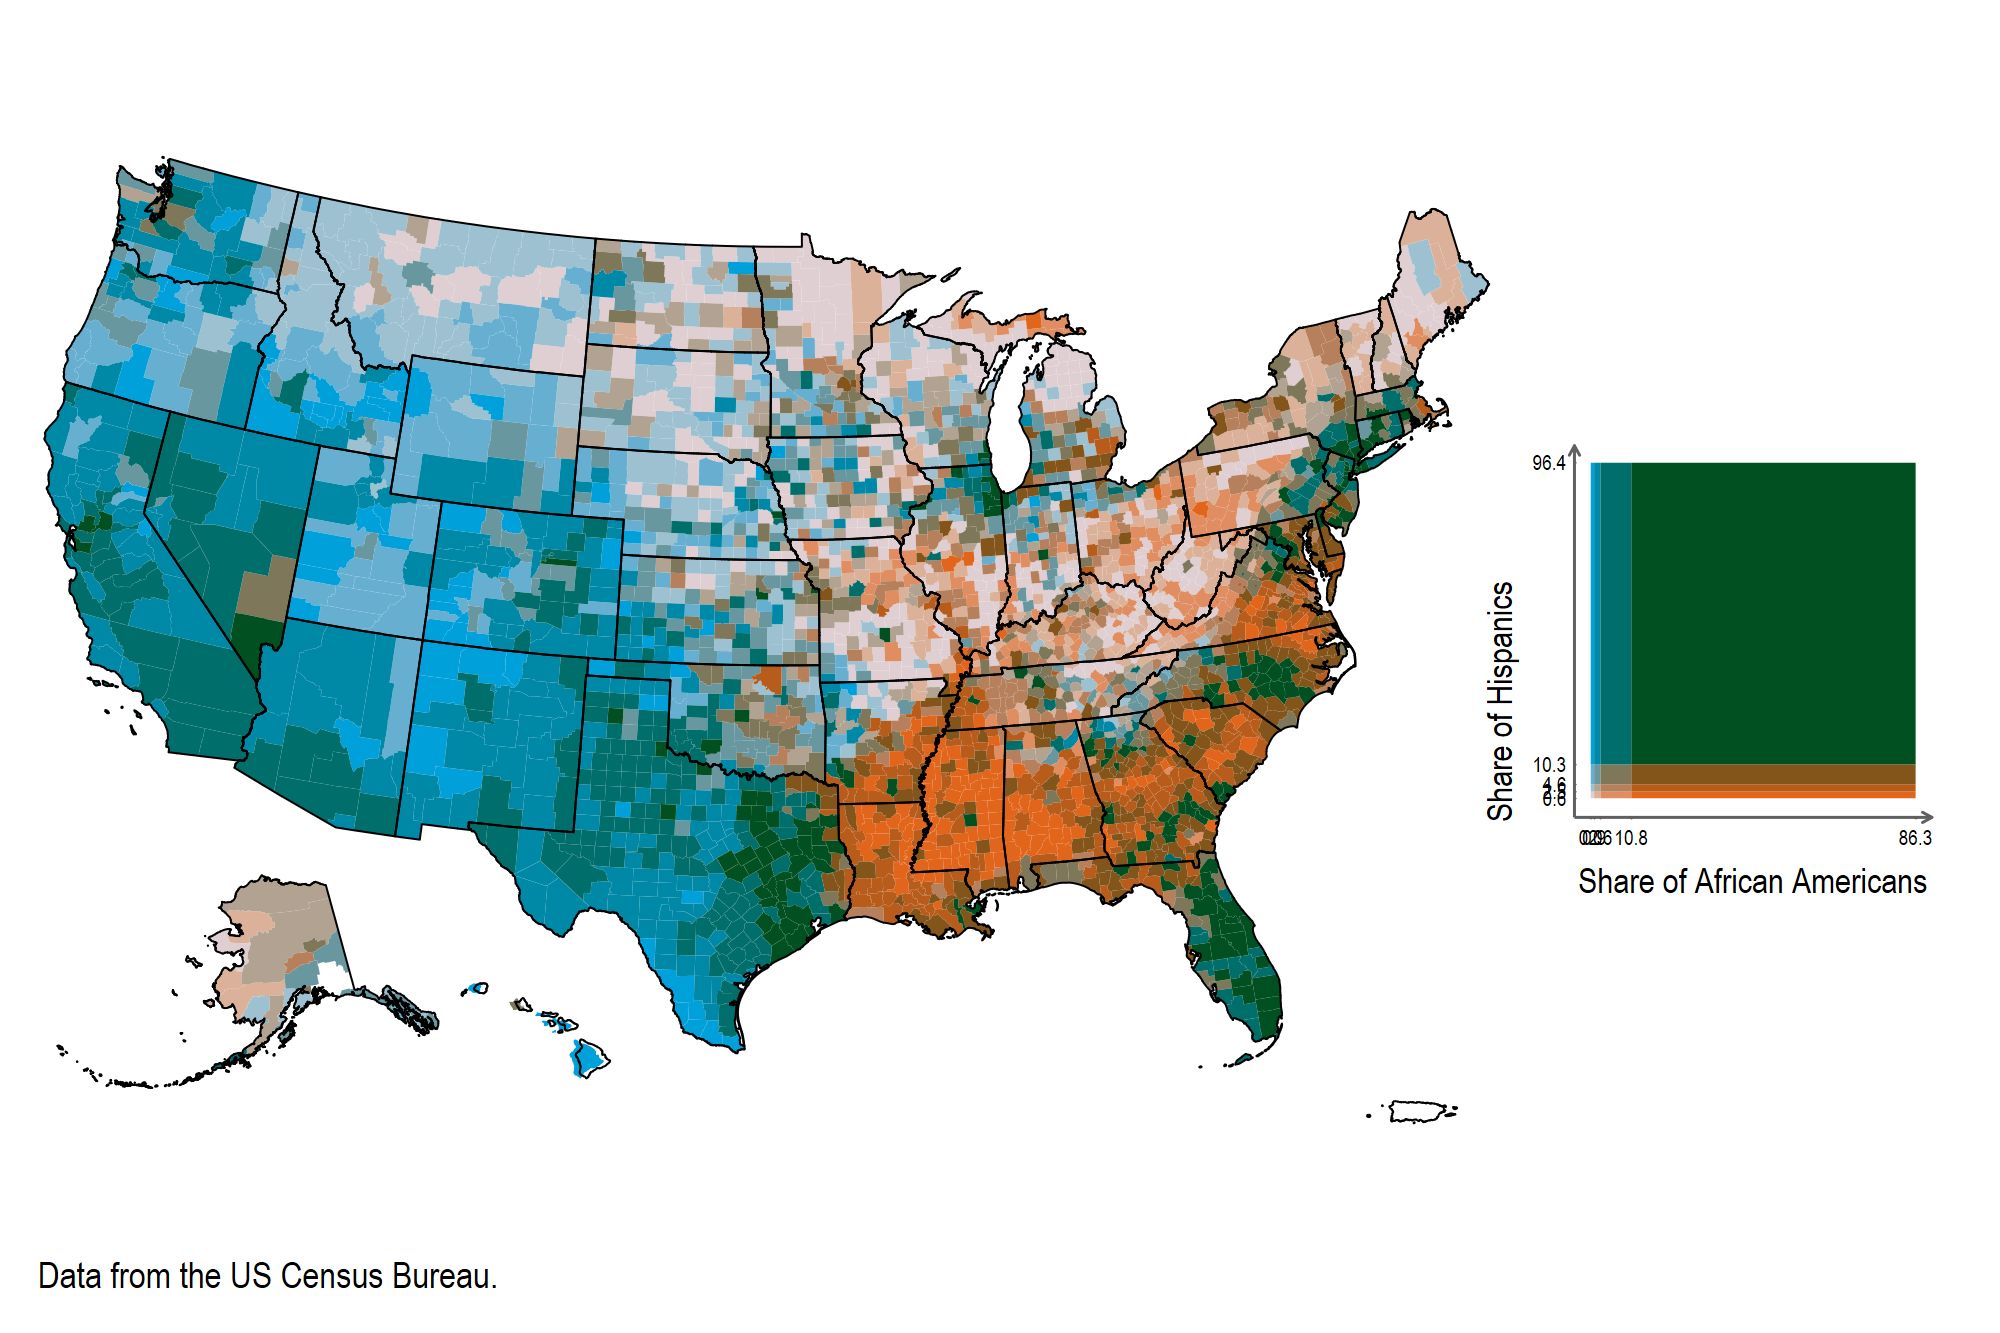
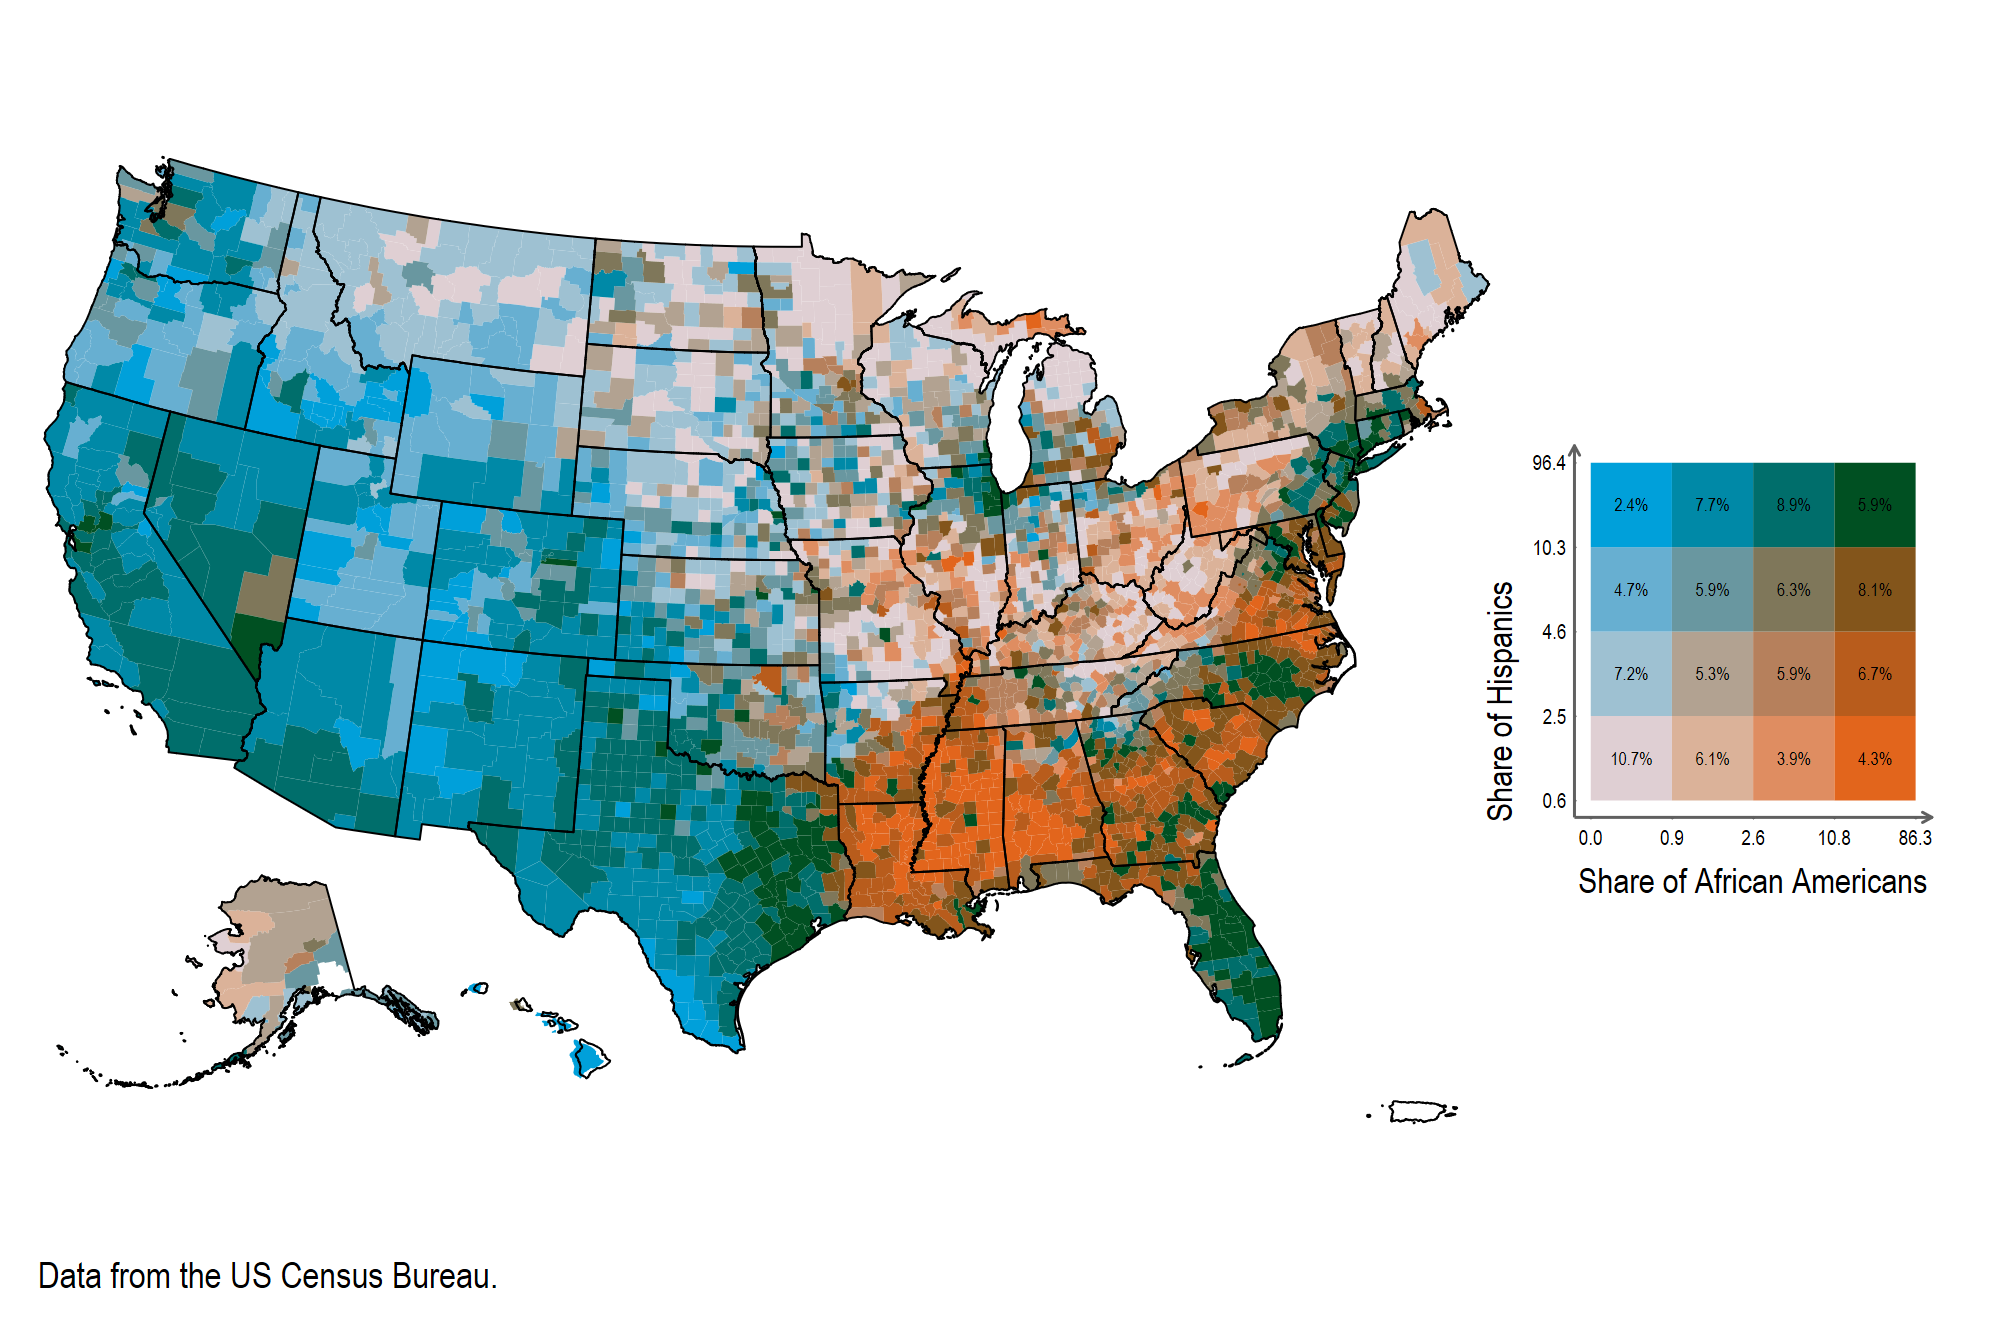
v1.61

Changed region(s): [[0.775, 0.3383, 0.961, 0.6459]]

diff --git a/README.md b/README.md
@@ -8,7 +8,7 @@
 
 ---
 
-# bimap v1.6
+# bimap v1.61
 
 This package provides the ability to draw bi-variate maps in Stata. It is based on the [Bi-variate maps Guide](https://medium.com/the-stata-guide/stata-graphs-bi-variate-maps-b1e96dd4c2be).
 
@@ -22,7 +22,7 @@ The package can be installed from SSC (**v1.6**):
 ssc install bimap, replace
 ```
 
-Or it can be installed from GitHub (**v1.6**):
+Or it can be installed from GitHub (**v1.61**):
 
 ```
 net install bimap, from("https://raw.githubusercontent.com/asjadnaqvi/stata-bimap/main/installation/") replace
@@ -59,7 +59,7 @@ This command is a wrapper for `spmap` and assumes that you have shapefiles in St
 
 ## Syntax
 
-The syntax for **v1.6** is as follows:
+The syntax for **v1.61** is as follows:
 
 ```
 bimap vary varx [if] [in], [ palette(name) reverse  clr0(str) clrx(str) clry(str) clrsaturate(num)
@@ -379,7 +379,7 @@ bimap share_hisp share_afam using county_shp2, cut(pctile) palette(orangeblue) c
 <img src="/figures/bimap20.png" height="500">
 
 ```
-bimap share_hisp share_afam using county_shp2, cut(pctile) palette(orangeblue) bins(4) binsproper  ///
+bimap share_hisp share_afam using county_shp2, cut(pctile) palette(orangeblue) bins(4) percent  ///
 		note("Data from the US Census Bureau.") ///	
 		texty("Share of Hispanics") textx("Share of African Americans") texts(3.5) textlabs(3) values   ///
 		 ocolor() osize(none) ///
@@ -394,6 +394,9 @@ Please open an [issue](https://github.com/asjadnaqvi/stata-bimap/issues) to repo
 
 
 ## Change log
+
+**v1.61 (12 Apr 2023)**
+- Fixed a major bug in the legend. The boxes were not rescaling properly (reported by Faylosphie and Paul).
 
 **v1.6 (17 Mar 2023)** (major update)
 - Scalable color palettes.
